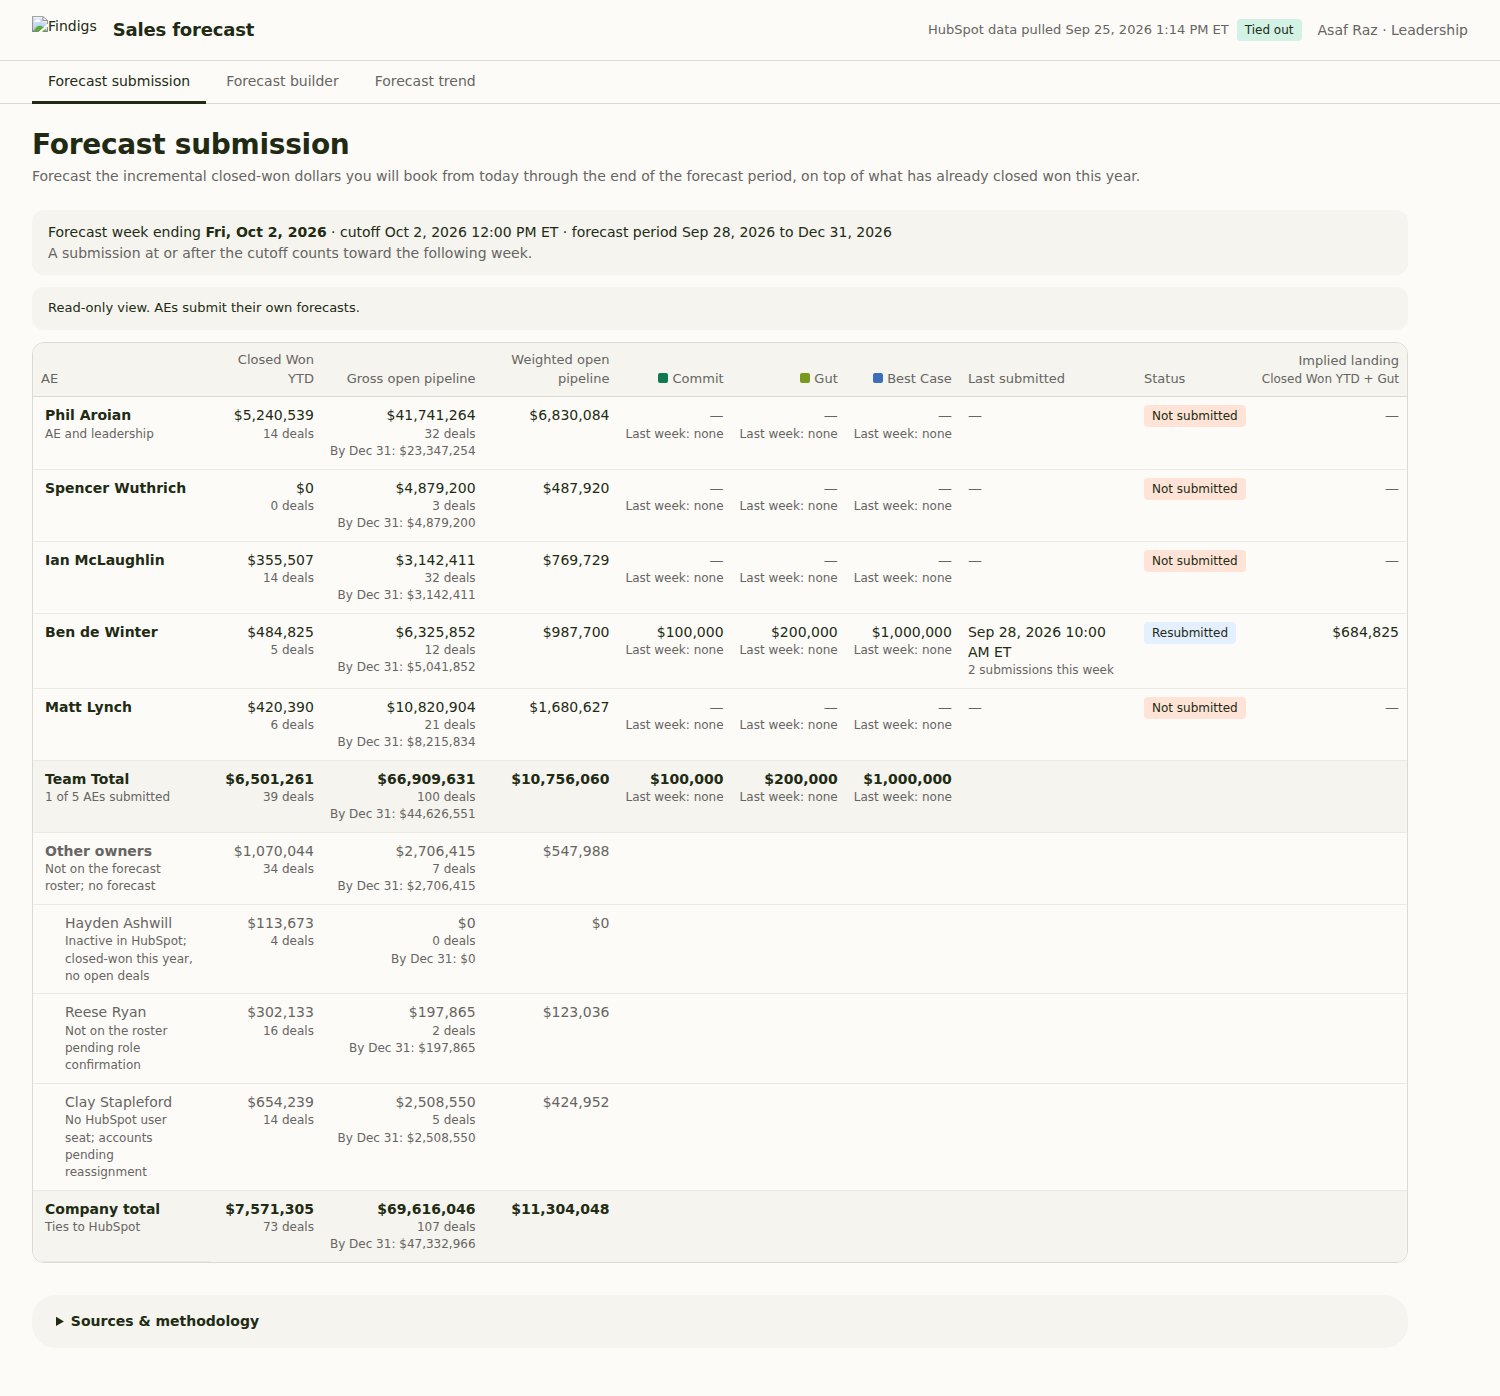
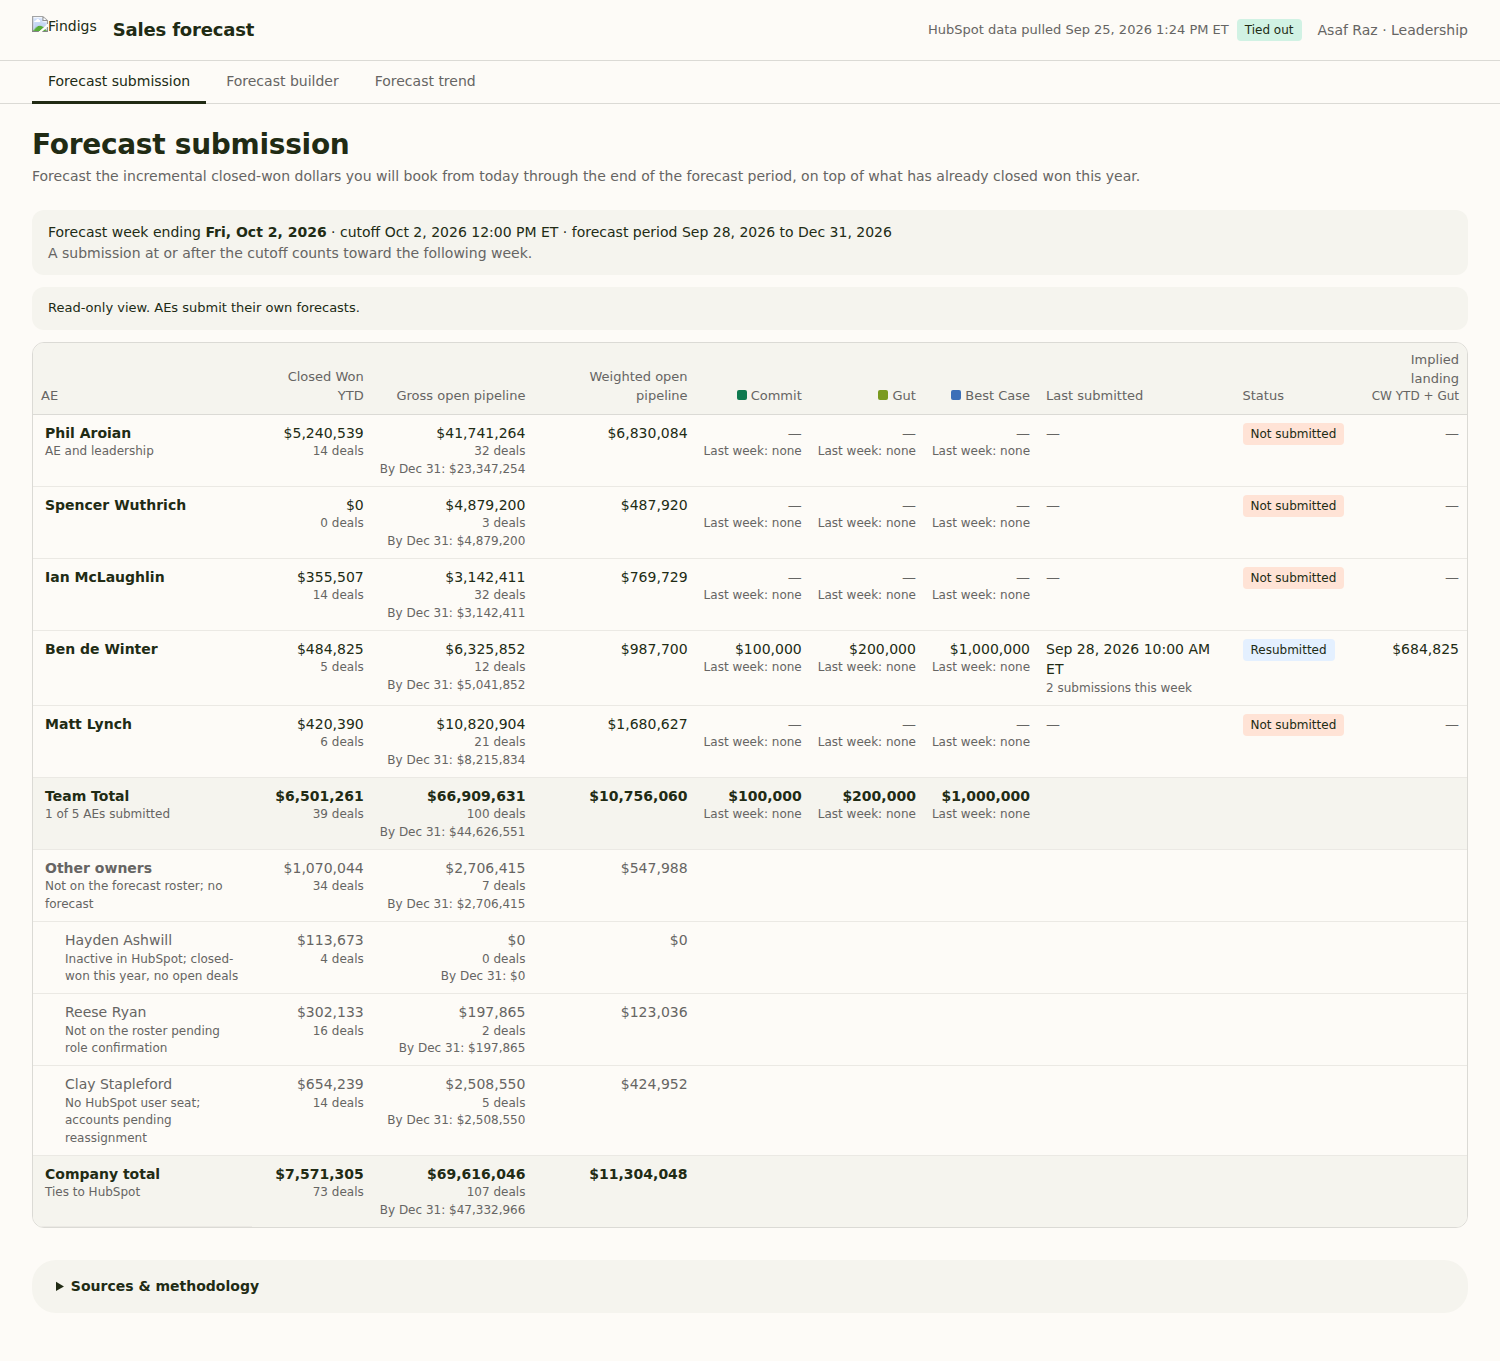
Sales forecast: full transparency and admin on-behalf submissions
- Everyone on the roster sees every Section 1 row, Team Total, other
  owners, the company total, and every AE's builder (read-only). Forced
  HubSpot refresh stays limited to ae_leader/leadership/admin.
- Admins can submit on behalf of any AE via a picker. Snapshot records
  submitted_by_email and submitted_on_behalf; the rollup gains submitted_by
  and on_behalf columns, appended to existing Sheets by a header migration
  that refuses anything but a strict prefix.
- Wider layout so Section 1 fits at 1500px with a row in edit mode.
- 76 tests passing, incl. on-behalf flow (API + Chromium) and migration.

Claude-Session: https://claude.ai/code/session_01XhpTwtULgWiB4eVQP7a91r

diff --git a/this-little-piggy/sales-forecast/appsscript/Client_Submission.html b/this-little-piggy/sales-forecast/appsscript/Client_Submission.html
@@ -9,8 +9,8 @@ var Submission = (function () {
 
   function init() { load(); }
 
-  function load() {
-    return A.rpc('apiGetSubmission').then(function (v) { setView(v); }).catch(function (e) {
+  function load(actingSlug) {
+    return A.rpc('apiGetSubmission', actingSlug || null).then(function (v) { setView(v); }).catch(function (e) {
       A.banner('error', A.esc(e.message), 'submission-load-error');
     });
   }
@@ -92,7 +92,8 @@ var Submission = (function () {
     shown.forEach(function (e) { msgs += '<div class="msg error">' + A.icon('error') + A.esc(e.message) + '</div>'; });
     val.warnings.forEach(function (w) { msgs += '<div class="msg warn">' + A.icon('warning') + A.esc(w.message.replace(' You can still submit.', '')) + ' Your open pipeline closing by ' + A.esc(A.date(st.view.period.end)) + ' is ' + A.usd0(w.pipeline) + '. You can still submit.</div>'; });
     var disabled = !val.ok || st.submitting;
-    return '<tr class="own-actions"><td colspan="10"><div class="actions">' +
+    var behalf = st.view.onBehalf ? '<div class="msg warn">' + A.icon('supervisor_account') + 'You are submitting on behalf of <strong>' + A.esc(ownRow().name) + '</strong>. The snapshot records you (' + A.esc(st.view.viewer.email) + ') as the submitter.</div>' : '';
+    return '<tr class="own-actions"><td colspan="10">' + behalf + '<div class="actions">' +
       '<button type="button" class="btn primary" id="s-submit"' + (disabled ? ' disabled' : '') + '>' + (st.submitting ? 'Submitting…' : (ownRow().status === 'not_submitted' ? 'Submit forecast' : 'Resubmit forecast')) + '</button>' +
       '<span class="muted">Commit ≤ Gut ≤ Best Case. Your latest submission before ' + A.esc(A.stamp(st.view.week.cutoffAt)) + ' is the official number for this week.</span>' +
       '</div>' + msgs + '</td></tr>';
@@ -123,8 +124,10 @@ var Submission = (function () {
   function history() {
     var h = st.view.history || [];
     if (!h.length) return '';
-    return '<div class="note"><strong>Your submissions this week</strong><ul>' + h.map(function (x) {
+    var own = ownRow();
+    return '<div class="note"><strong>' + (st.view.onBehalf ? A.esc(own.name) + '\'s submissions' : 'Your submissions') + ' this week</strong><ul>' + h.map(function (x) {
       return '<li>' + A.esc(A.stamp(x.submittedAt)) + ': Commit ' + A.usd0(x.commit) + ' · Gut ' + A.usd0(x.gut) + ' · Best Case ' + A.usd0(x.best_case) +
+        (x.onBehalf ? ' <span class="muted">submitted by ' + A.esc(x.submittedBy) + ' on their behalf</span>' : '') +
         (x.isOfficial ? ' <span class="tag jade">Current official</span>' : '') + '</li>';
     }).join('') + '</ul></div>';
   }
@@ -134,7 +137,14 @@ var Submission = (function () {
     $('s-week').innerHTML = A.icon('event') + ' Forecast week ending <strong>Fri, ' + A.esc(A.date(v.week.forecastWeek)) + '</strong> · cutoff ' + A.esc(A.stamp(v.week.cutoffAt)) +
       ' · forecast period ' + A.esc(A.date(v.period.start)) + ' to ' + A.esc(A.date(v.period.end)) +
       '<div class="muted">A submission at or after the cutoff counts toward the following week.</div>';
-    $('s-readonly').innerHTML = v.editableSlug ? '' : '<div class="note">' + A.icon('visibility') + ' Read-only view. AEs submit their own forecasts.</div>';
+    var picker = '';
+    if (v.editableSlugs && v.editableSlugs.length > 1) {
+      picker = '<div class="controls"><label class="field">Submit on behalf of <select id="s-acting" aria-label="Submit on behalf of">' +
+        '<option value="">Choose an AE</option>' +
+        v.aes.map(function (a) { return '<option value="' + A.esc(a.slug) + '"' + (a.slug === v.editableSlug ? ' selected' : '') + '>' + A.esc(a.name) + '</option>'; }).join('') +
+        '</select></label><span class="muted">Admins can submit for an AE who is traveling or missing the call.</span></div>';
+    }
+    $('s-readonly').innerHTML = picker + (v.editableSlug || picker ? '' : '<div class="note">' + A.icon('visibility') + ' Read-only view. AEs submit their own forecasts.</div>');
     var body = v.rows.map(aeRow).join('') + teamRows();
     document.querySelector('#s-table tbody').innerHTML = body || '<tr><td colspan="10" class="empty">No rows to show.</td></tr>';
     $('s-history').innerHTML = history();
@@ -149,6 +159,7 @@ var Submission = (function () {
       });
     });
     var b = $('s-submit'); if (b) b.addEventListener('click', submit);
+    var p = $('s-acting'); if (p) p.addEventListener('change', function (e) { load(e.target.value || null); });
   }
 
   /** Re-render the editable row on each keystroke without losing the caret. */
@@ -162,10 +173,10 @@ var Submission = (function () {
   function submit() {
     var val = currentValidation(); if (!val || !val.ok || st.submitting) return;
     st.submitting = true; render();
-    A.rpc('apiSubmitForecast', { commit: st.draft.commit, gut: st.draft.gut, best_case: st.draft.best_case }).then(function (res) {
+    A.rpc('apiSubmitForecast', { commit: st.draft.commit, gut: st.draft.gut, best_case: st.draft.best_case }, st.view.editableSlug).then(function (res) {
       st.submitting = false;
       var r = res.result;
-      A.banner('info', '<strong>Forecast submitted</strong> for the week ending ' + A.esc(A.date(r.forecastWeek)) + ' at ' + A.esc(A.stamp(r.submittedAt)) +
+      A.banner('info', '<strong>Forecast submitted</strong>' + (r.onBehalf ? ' for ' + A.esc(r.aeName) + ' (on their behalf)' : '') + ' for the week ending ' + A.esc(A.date(r.forecastWeek)) + ' at ' + A.esc(A.stamp(r.submittedAt)) +
         (r.resubmissionSeq > 1 ? ' (submission ' + r.resubmissionSeq + ' this week; it replaces your earlier one as the official number)' : '') +
         '. Snapshot saved as <code>' + A.esc(r.fileName) + '</code>.' +
         (r.warnings.length ? ' Warnings recorded: ' + r.warnings.map(function (w) { return A.esc(w.message); }).join(' ') : ''), 'submit-result');

diff --git a/this-little-piggy/sales-forecast/appsscript/Client_Core.html b/this-little-piggy/sales-forecast/appsscript/Client_Core.html
@@ -144,16 +144,27 @@ var ForecastCore = (function () {
   }
 
   // ------------------------------------------------------------------ viewer / roster
+  /**
+   * Everyone on the roster sees everything, read-only (decision 2026-09-25: full transparency).
+   * Edits: an AE (incl. ae_leader) edits their own builder and submits their own forecast; an admin can
+   * submit on behalf of any AE (decision 2026-09-25). canRefresh gates the expensive forced HubSpot refresh.
+   */
   function resolveViewer(email, roster) {
     var e = String(email || '').trim().toLowerCase();
     if (!e) return null;
     var ae = (roster.aes || []).filter(function (a) { return a.email.toLowerCase() === e; })[0];
-    if (ae) return { email: e, name: ae.name, role: ae.role, ae: ae, canViewAll: ae.role === 'ae_leader', isAdmin: false };
+    if (ae) return { email: e, name: ae.name, role: ae.role, ae: ae, canViewAll: true, canRefresh: ae.role === 'ae_leader', isAdmin: false };
     var lead = (roster.leadership || []).filter(function (a) { return a.email.toLowerCase() === e; })[0];
-    if (lead) return { email: e, name: lead.name, role: 'leadership', ae: null, canViewAll: true, isAdmin: false };
+    if (lead) return { email: e, name: lead.name, role: 'leadership', ae: null, canViewAll: true, canRefresh: true, isAdmin: false };
     var adm = (roster.admins || []).filter(function (a) { return a.email.toLowerCase() === e; })[0];
-    if (adm) return { email: e, name: adm.name, role: 'admin', ae: null, canViewAll: true, isAdmin: true };
+    if (adm) return { email: e, name: adm.name, role: 'admin', ae: null, canViewAll: true, canRefresh: true, isAdmin: true };
     return null;
+  }
+  /** Roster AE slugs this viewer may submit a forecast for. */
+  function submittableSlugs(viewer, roster) {
+    if (!viewer) return [];
+    if (viewer.isAdmin) return (roster.aes || []).map(function (a) { return a.slug; });
+    return viewer.ae ? [viewer.ae.slug] : [];
   }
 
   // ------------------------------------------------------------------ deals
@@ -572,7 +583,7 @@ var ForecastCore = (function () {
       forecast_week: a.week.forecastWeek, cutoff_at: a.week.cutoffAt,
       forecast_period: { start: a.period.start, end: a.period.end },
       ae: { name: a.ae.name, email: a.ae.email, hubspot_owner_id: String(a.ae.hubspot_owner_id), slug: a.ae.slug },
-      submitted_at: a.submittedAt, submitted_by_email: a.submittedBy,
+      submitted_at: a.submittedAt, submitted_by_email: a.submittedBy, submitted_on_behalf: !!a.onBehalf,
       forecast: { commit: v.commit, gut: v.gut, best_case: v.best_case },
       validation: { nesting_ok: true, warnings: a.warnings.map(function (w) { return w.code; }) },
       context_at_submission: {
@@ -687,7 +698,7 @@ var ForecastCore = (function () {
     validateTagChanges: validateTagChanges,
     num: num, round2: round2, etOffsetMinutes: etOffsetMinutes, etParts: etParts, etDate: etDate, etIso: etIso,
     etToUtcMs: etToUtcMs, addDays: addDays, fiscalYearOf: fiscalYearOf, periodFor: periodFor,
-    buildStageMap: buildStageMap, normalizeOwners: normalizeOwners, resolveViewer: resolveViewer, dealUrl: dealUrl,
+    buildStageMap: buildStageMap, normalizeOwners: normalizeOwners, resolveViewer: resolveViewer, submittableSlugs: submittableSlugs, dealUrl: dealUrl,
     deriveOpenDeal: deriveOpenDeal, deriveWonDeal: deriveWonDeal, classifyDeals: classifyDeals,
     computeMetrics: computeMetrics, summarizeForTieOut: summarizeForTieOut, tieOut: tieOut, diffDealSets: diffDealSets
   };

diff --git a/this-little-piggy/sales-forecast/core/forecast_core.js b/this-little-piggy/sales-forecast/core/forecast_core.js
@@ -142,16 +142,27 @@ var ForecastCore = (function () {
   }
 
   // ------------------------------------------------------------------ viewer / roster
+  /**
+   * Everyone on the roster sees everything, read-only (decision 2026-09-25: full transparency).
+   * Edits: an AE (incl. ae_leader) edits their own builder and submits their own forecast; an admin can
+   * submit on behalf of any AE (decision 2026-09-25). canRefresh gates the expensive forced HubSpot refresh.
+   */
   function resolveViewer(email, roster) {
     var e = String(email || '').trim().toLowerCase();
     if (!e) return null;
     var ae = (roster.aes || []).filter(function (a) { return a.email.toLowerCase() === e; })[0];
-    if (ae) return { email: e, name: ae.name, role: ae.role, ae: ae, canViewAll: ae.role === 'ae_leader', isAdmin: false };
+    if (ae) return { email: e, name: ae.name, role: ae.role, ae: ae, canViewAll: true, canRefresh: ae.role === 'ae_leader', isAdmin: false };
     var lead = (roster.leadership || []).filter(function (a) { return a.email.toLowerCase() === e; })[0];
-    if (lead) return { email: e, name: lead.name, role: 'leadership', ae: null, canViewAll: true, isAdmin: false };
+    if (lead) return { email: e, name: lead.name, role: 'leadership', ae: null, canViewAll: true, canRefresh: true, isAdmin: false };
     var adm = (roster.admins || []).filter(function (a) { return a.email.toLowerCase() === e; })[0];
-    if (adm) return { email: e, name: adm.name, role: 'admin', ae: null, canViewAll: true, isAdmin: true };
+    if (adm) return { email: e, name: adm.name, role: 'admin', ae: null, canViewAll: true, canRefresh: true, isAdmin: true };
     return null;
+  }
+  /** Roster AE slugs this viewer may submit a forecast for. */
+  function submittableSlugs(viewer, roster) {
+    if (!viewer) return [];
+    if (viewer.isAdmin) return (roster.aes || []).map(function (a) { return a.slug; });
+    return viewer.ae ? [viewer.ae.slug] : [];
   }
 
   // ------------------------------------------------------------------ deals
@@ -570,7 +581,7 @@ var ForecastCore = (function () {
       forecast_week: a.week.forecastWeek, cutoff_at: a.week.cutoffAt,
       forecast_period: { start: a.period.start, end: a.period.end },
       ae: { name: a.ae.name, email: a.ae.email, hubspot_owner_id: String(a.ae.hubspot_owner_id), slug: a.ae.slug },
-      submitted_at: a.submittedAt, submitted_by_email: a.submittedBy,
+      submitted_at: a.submittedAt, submitted_by_email: a.submittedBy, submitted_on_behalf: !!a.onBehalf,
       forecast: { commit: v.commit, gut: v.gut, best_case: v.best_case },
       validation: { nesting_ok: true, warnings: a.warnings.map(function (w) { return w.code; }) },
       context_at_submission: {
@@ -685,7 +696,7 @@ var ForecastCore = (function () {
     validateTagChanges: validateTagChanges,
     num: num, round2: round2, etOffsetMinutes: etOffsetMinutes, etParts: etParts, etDate: etDate, etIso: etIso,
     etToUtcMs: etToUtcMs, addDays: addDays, fiscalYearOf: fiscalYearOf, periodFor: periodFor,
-    buildStageMap: buildStageMap, normalizeOwners: normalizeOwners, resolveViewer: resolveViewer, dealUrl: dealUrl,
+    buildStageMap: buildStageMap, normalizeOwners: normalizeOwners, resolveViewer: resolveViewer, submittableSlugs: submittableSlugs, dealUrl: dealUrl,
     deriveOpenDeal: deriveOpenDeal, deriveWonDeal: deriveWonDeal, classifyDeals: classifyDeals,
     computeMetrics: computeMetrics, summarizeForTieOut: summarizeForTieOut, tieOut: tieOut, diffDealSets: diffDealSets
   };

diff --git a/this-little-piggy/sales-forecast/appsscript/Styles.html b/this-little-piggy/sales-forecast/appsscript/Styles.html
@@ -54,7 +54,7 @@ html:not(.icons-ready) .material-symbols-rounded { display: none; }
 .tabs button { background: none; border: 0; padding: var(--space-3) var(--space-4); font-weight: 500; color: var(--fg-2); cursor: pointer; border-bottom: 3px solid transparent; margin-bottom: -1px; }
 .tabs button[aria-selected="true"] { color: var(--fg-1); border-bottom-color: var(--forest); }
 .tabs button:focus-visible { outline: none; box-shadow: var(--focus-ring); border-radius: var(--r-sm); }
-main { padding: var(--space-5) var(--space-6) var(--space-7); max-width: 1440px; }
+main { padding: var(--space-5) var(--space-6) var(--space-7); max-width: 1680px; }
 .section-head h2 { font-size: 28px; line-height: 34px; letter-spacing: -0.01em; font-weight: 900; margin: 0 0 var(--space-1); }
 .section-head .sub { color: var(--fg-2); margin: 0 0 var(--space-5); }
 .placeholder { background: var(--bg-surface); border-radius: var(--r-xl); padding: var(--space-6); color: var(--fg-2); }
@@ -145,7 +145,7 @@ table.forecast tr.subtle th, table.forecast tr.subtle td { color: var(--fg-2); }
 table.forecast tr.child th { padding-left: var(--space-6); font-weight: 400; }
 .money { display: inline-flex; align-items: center; border: 1px solid var(--border-subtle); border-radius: var(--r-md); background: var(--sand); height: 36px; padding: 0 var(--space-2); box-shadow: inset 3px 0 0 var(--swatch); }
 .money .cur { color: var(--fg-2); padding: 0 var(--space-1) 0 var(--space-2); }
-.money input { border: 0; outline: none; background: transparent; width: 88px; text-align: right; font-variant-numeric: tabular-nums; }
+.money input { border: 0; outline: none; background: transparent; width: 80px; text-align: right; font-variant-numeric: tabular-nums; }
 .money:focus-within { border: 2px solid var(--forest); padding: 0 7px; }
 .money.invalid { border: 1px solid var(--fg-danger); background: var(--coral-20); }
 .actions { display: flex; flex-wrap: wrap; gap: var(--space-4); align-items: center; }

diff --git a/this-little-piggy/sales-forecast/appsscript/Index.html b/this-little-piggy/sales-forecast/appsscript/Index.html
@@ -44,7 +44,7 @@
             <th scope="col" class="num"><span class="swatch" style="--swatch:var(--series-best)"></span> Best Case</th>
             <th scope="col">Last submitted</th>
             <th scope="col">Status</th>
-            <th scope="col" class="num">Implied landing<div class="lw muted">Closed Won YTD + Gut</div></th>
+            <th scope="col" class="num">Implied landing<div class="lw muted">CW YTD + Gut</div></th>
           </tr></thead>
           <tbody></tbody>
         </table>

diff --git a/this-little-piggy/sales-forecast/docs/PHASE0_PROPOSAL.md b/this-little-piggy/sales-forecast/docs/PHASE0_PROPOSAL.md
@@ -25,8 +25,9 @@
 | P2-5 | Leadership's default AE is the first alphabetically | `Main.gs targetAe_` |
 | P2-6 | Notion Data Definitions now holds two approved weighting methods, usable interchangeably per tool: Method A "Weighted deal value" / "Weighted open pipeline" (GTM dashboard) and Method B "Weighted deal value (stage probability)" / "Weighted open pipeline (stage probability)" (Sales forecast tool). New "Used by" option: Sales forecast tool | Notion Metric Definitions |
 | P3-1 | Gate passed: live Apps Script run on 2026-09-25 met every criterion | `verification/2026-09-25/live_run_apps_script.md` |
-| P3-2 | An AE sees only their own Section 1 row; ae_leader, leadership, and admin see every row plus Team Total, other owners, and company total (read-only) | `Main.gs apiGetSubmission` |
+| P3-2 | **Full transparency (revised 2026-09-25):** everyone on the roster sees every Section 1 row, Team Total, other owners, the company total, and every AE's builder, all read-only. Edits stay with the owner | `ForecastCore.resolveViewer` |
 | P3-3 | Inputs start empty each week, or show this week's latest submission. Last week's values appear only as the "Last week" reference under each input and are never carried forward | `Client_Submission.html` |
 | P3-4 | Team Total forecast = sum of this week's latest submissions (shows "n of 5 submitted"). WoW is like-for-like: only AEs who submitted both weeks | `ForecastCore.sectionOneTeam` |
 | P3-5 | A submission at exactly 12:00:00 ET belongs to the next week (the cutoff is exclusive) | `ForecastCore.forecastWeekFor` |
 | P3-6 | Test mode: Script Property `FORECAST_TEST_FOLDER_ID` routes all writes to Sales Forecasts/_test | `Storage.gs` |
+| P3-7 | Admins can submit on behalf of any AE, for example one who is traveling or missing the call. The snapshot records `submitted_by_email` and `submitted_on_behalf`, and the rollup adds `submitted_by` and `on_behalf` columns (appended automatically to existing Sheets). ae_leader and leadership cannot submit for others. Builder tags stay AE-only | `Main.gs apiSubmitForecast` |

diff --git a/this-little-piggy/sales-forecast/README.md b/this-little-piggy/sales-forecast/README.md
@@ -49,7 +49,7 @@ Test mode sends every write (snapshots, rollup Sheet, builder tags, cache, build
 1. `git pull`, then in `sales-forecast/` run `npm test` and `clasp push` (answer **y** to overwrite the manifest).
 2. Apps Script → Project Settings → Script properties → add `FORECAST_TEST_FOLDER_ID` = `17CBtW0XTcMq-GO3OsXlbRArf9olSHnIg`.
 3. **Deploy → New deployment → Web app.** Set Execute as **Me** and Who has access **Anyone within Findigs**. Copy the web app URL.
-4. Open the URL. You're an admin, so you see every row read-only. To try the AE flow, have one AE open it, or temporarily add yourself as an AE in `config/roster.json` locally (don't commit), then run `npm run build && clasp push`.
+4. Open the URL. As an admin, use **Submit on behalf of** to pick an AE, for example Ben de Winter, and submit for them.
 5. Submit, then resubmit, and confirm that `_test/FY2026` has one `forecast_*.json` per submission and that **Sales Forecast Rollup 2026 (TEST)** has one row per submission with `is_official` TRUE only on the latest.
 6. **Go live:** delete the `FORECAST_TEST_FOLDER_ID` property. No redeploy is needed. Test files stay in `_test` and are never read in live mode.
 
